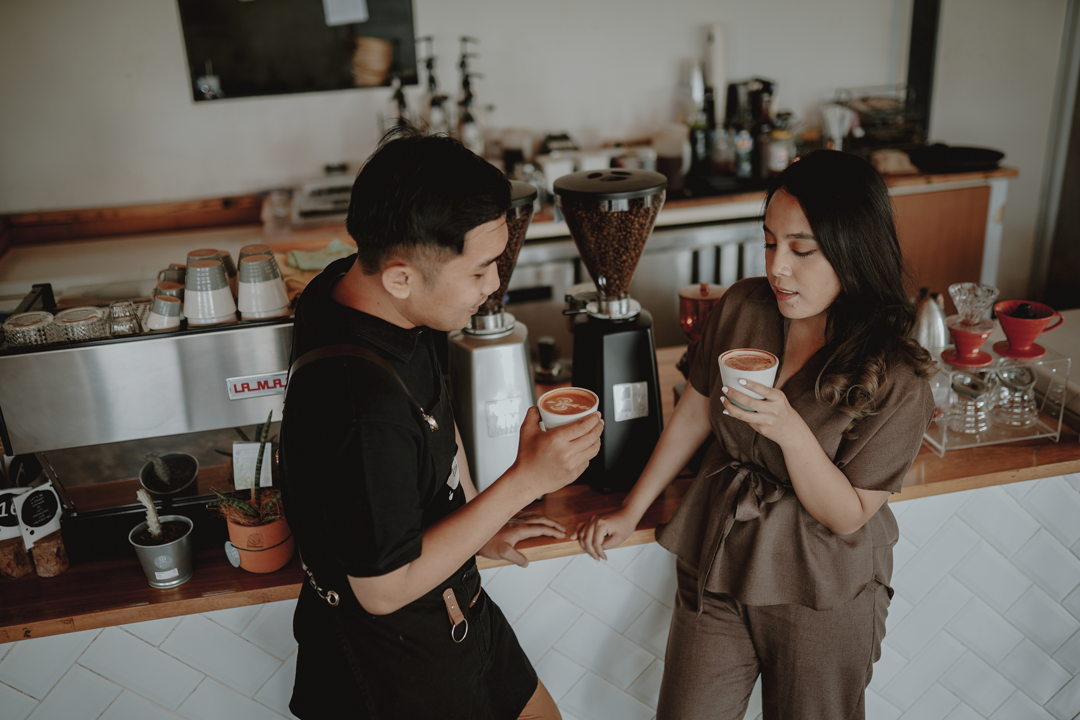
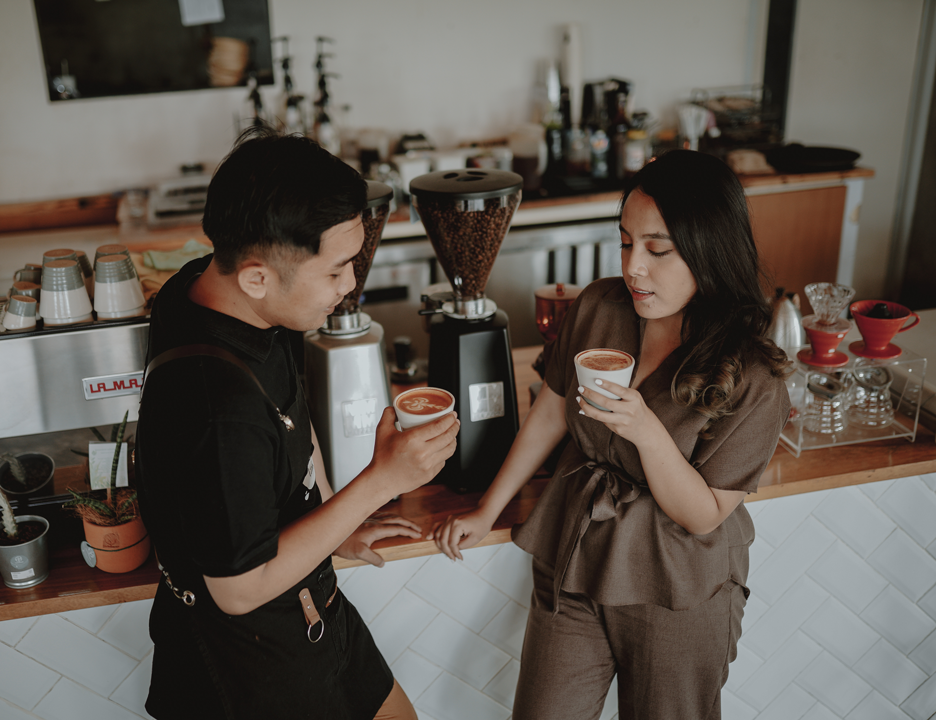
kharnisa fix image

diff --git a/pages/kharnisa-imam/[namaTamu].js b/pages/kharnisa-imam/[namaTamu].js
@@ -161,12 +161,12 @@ const Page = ({ messages }) => {
           date="04 April 2021"
           customColor="text-gray-50"
           overlayColor="bg-kharnisa-imam-rosegold"
-          imagePath="/kharnisa-imam/couple.png"
+          imagePath="/kharnisa-imam/couple4.png"
         />
 
         <NamaPengantinThree
           namaWanita="Khairunisa Dian Lestari, S. Hum"
-          ortuWanita="Putri dari Bpk. Bapak Suyoto (Alm) & Ibu Ayi Mustikai"
+          ortuWanita="Putri Bungsu dari Bpk. H. Suyoto (Alm) & Hj. Ayi Mustika"
           namaPria="Dwi Imam Avianto, S.E"
           ortuPria="Putra dari Bpk. Kasturi Tri Irianto, A.Md & Ibu Ati Sugiarti, S.Ap, M.A"
           imagePathPria="/kharnisa-imam/pria.png"
@@ -221,7 +221,7 @@ const Page = ({ messages }) => {
         />
 
         <Terimakasih
-          namaPengantin="Kharnisa & Indah"
+          namaPengantin="Kharnisa & Imam"
           customColor="bg-kharnisa-imam-rosegold text-gray-50"
         />
 
